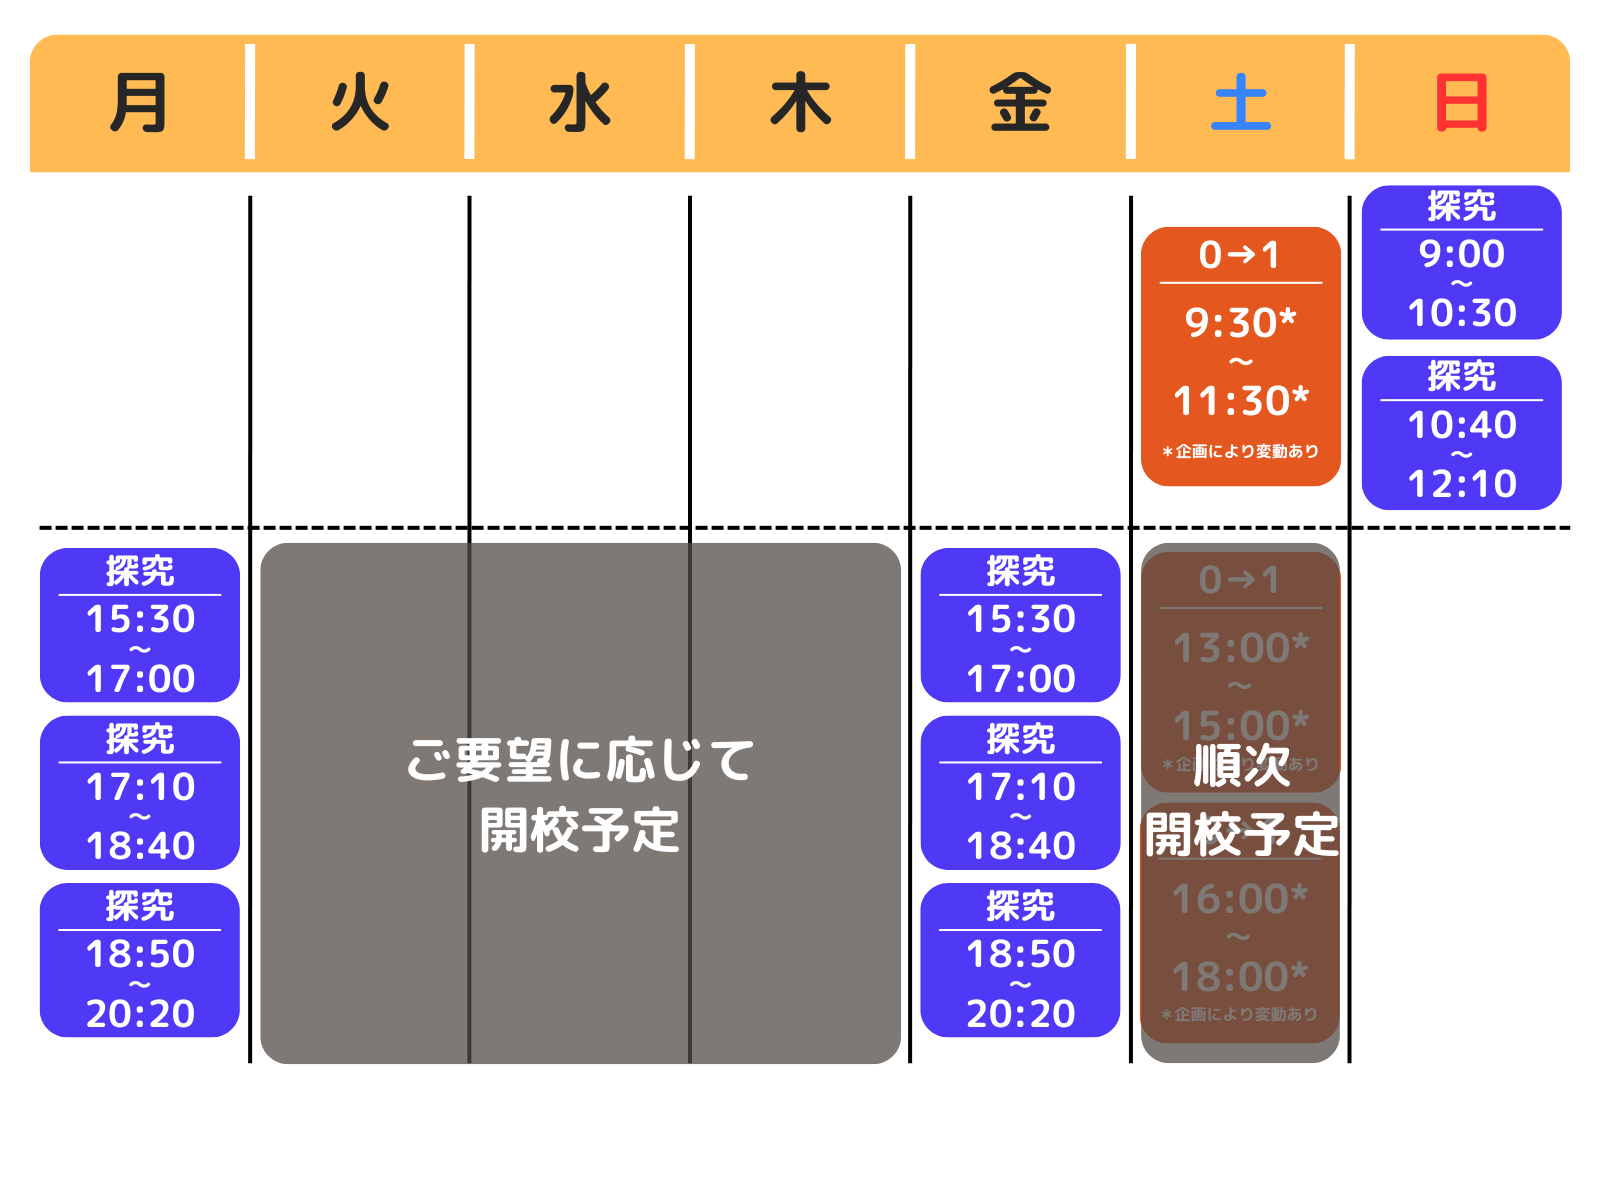
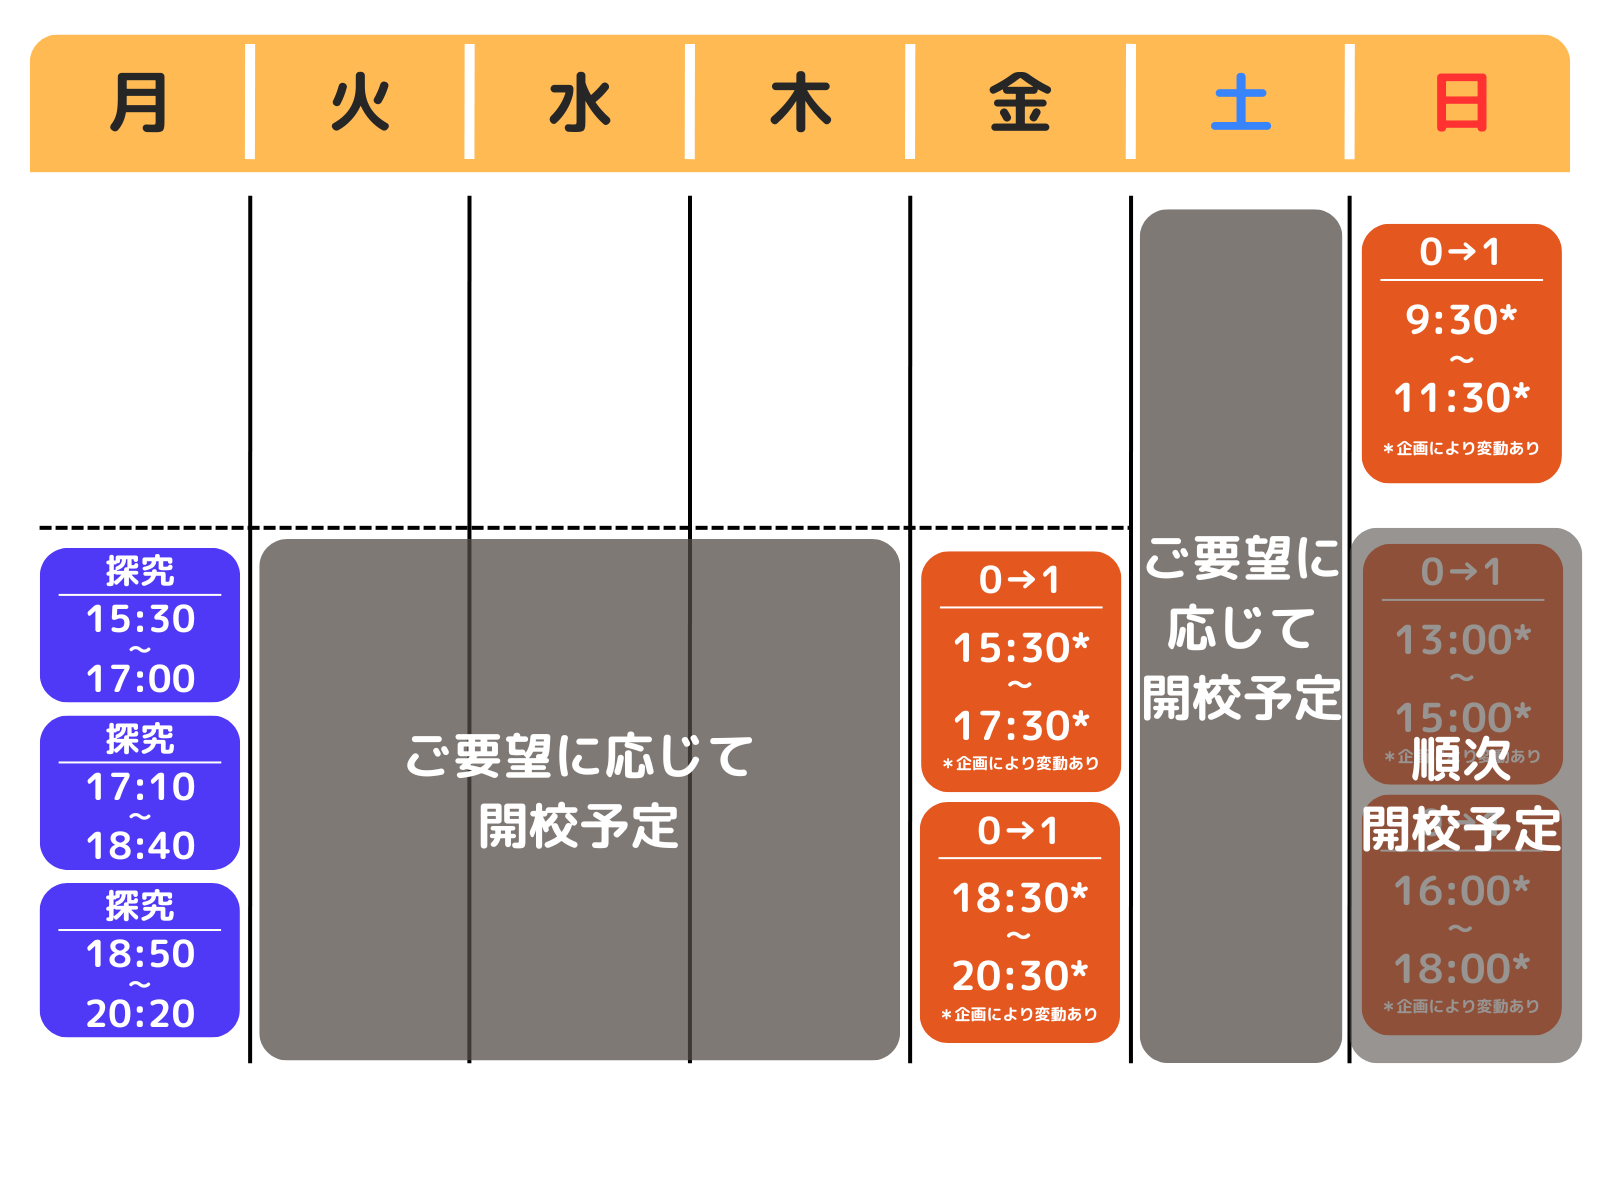
Enhance pricing page with professional plan details and update course pricing
- Updated the pricing page to conditionally display "BASIC MONTHLY" for the basic plan and added a section for the professional plan details, including name, price, and note.
- Adjusted course pricing to reflect the new monthly price and included a professional plan in the course data structure for better clarity on available options.

diff --git a/lib/courses-data.ts b/lib/courses-data.ts
@@ -48,6 +48,15 @@ export const courseTheme: Record<
   },
 };
 
+export type CourseProfessionalPlan = {
+  /** プランの表示名（例: 探究コース-プロフェッショナル） */
+  name: string;
+  /** 月額料金の表示文字列 */
+  price: string;
+  /** 対象・用途の補足説明 */
+  note: string;
+};
+
 export type CourseDefinition = {
   key: keyof typeof courseAnchor;
   id: string;
@@ -63,6 +72,8 @@ export type CourseDefinition = {
   themeNote: string;
   /** 準備中（Coming Soon）として案内するコース */
   comingSoon?: boolean;
+  /** 上位プラン（料金・対象が異なるティア） */
+  professionalPlan?: CourseProfessionalPlan;
   targetProfiles: string[];
   philosophy: {
     purpose: string;
@@ -171,13 +182,18 @@ export const courses: CourseDefinition[] = [
       "想定外のトラブルを受け入れ、修正しながら達成するレジリエンス",
     ],
     homeHighlights: [
-      "月8回×各1.5時間・税込29,800円（期間指定なし）",
+      "月8回×各1.5時間・税込19,800円〜（期間指定なし）",
       "問い立て〜調査・構造化〜試行錯誤〜レビュー＆発表の流れ",
       "大学生・社会人からのレビューを取り入れ改善",
     ],
     monthlySessions: "1.5時間×8回／月",
-    monthlyPrice: "29,800円（税込）",
+    monthlyPrice: "19,800円（税込）",
     themeNote: "期間指定なし（プロジェクトに応じて伴走）",
+    professionalPlan: {
+      name: "探究コース-プロフェッショナル",
+      price: "33,000円（税込）",
+      note: "受験への活用・特殊機材を使用する高度な探究向け",
+    },
     targetProfiles: [
       "勉強はできるが目的がない／自信がない → 探究コース or スキルコース",
       "体験が少ない／好奇心は強い → 0→1コース or 探究コース",

diff --git a/app/pricing/page.tsx b/app/pricing/page.tsx
@@ -206,8 +206,21 @@ export default function PricingPage() {
                               {c.monthlyPrice}
                             </p>
                             <p className="mt-1 text-[0.65rem] tracking-[0.22em] opacity-85 md:text-xs">
-                              MONTHLY
+                              {c.professionalPlan ? "BASIC MONTHLY" : "MONTHLY"}
                             </p>
+                            {c.professionalPlan && (
+                              <div className="mt-4 rounded-xl bg-white/15 px-4 py-3">
+                                <p className="text-[0.6rem] font-black tracking-[0.2em] opacity-90 md:text-[0.65rem]">
+                                  {c.professionalPlan.name}
+                                </p>
+                                <p className="mt-1 font-heading text-2xl font-black tabular-nums md:text-3xl">
+                                  {c.professionalPlan.price}
+                                </p>
+                                <p className="mt-0.5 text-[0.6rem] leading-snug opacity-80 md:text-[0.65rem]">
+                                  {c.professionalPlan.note}
+                                </p>
+                              </div>
+                            )}
                           </>
                         )}
                       </div>
